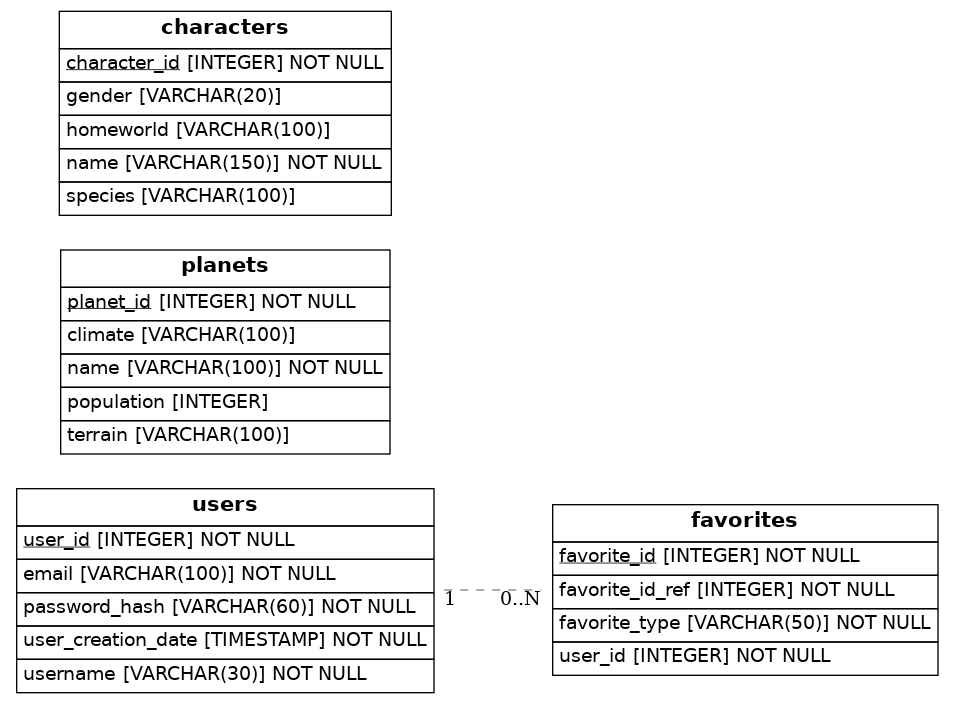
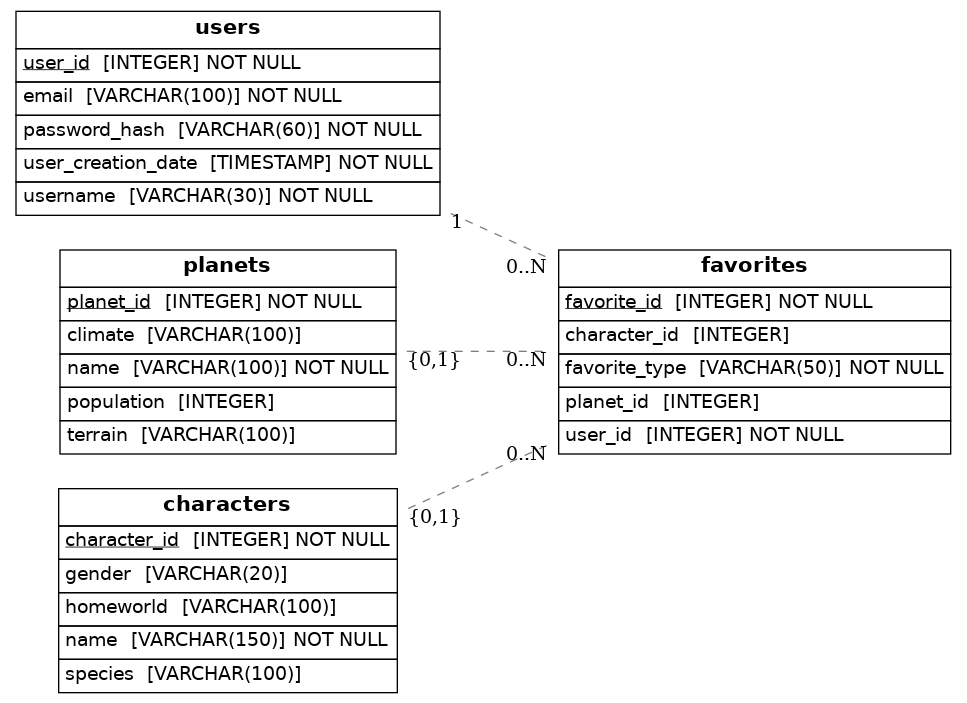
Cambio en tabla

diff --git a/src/models.py b/src/models.py
@@ -11,13 +11,11 @@ class Users(Base):
     __tablename__ = 'users'
     user_id = Column(Integer, primary_key=True)
     email = Column(String(100), unique=True, nullable=False)
-    password_hash = Column(String(60), nullable=False)  
+    password_hash = Column(String(60), nullable=False)
     username = Column(String(30), nullable=False)
-    user_creation_date = Column(TIMESTAMP, nullable=False)  
+    user_creation_date = Column(TIMESTAMP, nullable=False)
 
-    # Relación con Favoritos
     favorites = relationship("Favorites", back_populates="user")
-
 
 class Planets(Base):
     __tablename__ = 'planets'
@@ -27,10 +25,6 @@ class Planets(Base):
     terrain = Column(String(100), nullable=True)
     population = Column(Integer, nullable=True)
 
-    # Relación con Favoritos
-    favorites = relationship("Favorites", back_populates="planet")
-
-
 class Characters(Base):
     __tablename__ = 'characters'
     character_id = Column(Integer, primary_key=True)
@@ -39,21 +33,18 @@ class Characters(Base):
     homeworld = Column(String(100), nullable=True)
     gender = Column(String(20), nullable=True)
 
-    # Relación con Favoritos
-    favorites = relationship("Favorites", back_populates="character")
-
-
 class Favorites(Base):
     __tablename__ = 'favorites'
     favorite_id = Column(Integer, primary_key=True)
     user_id = Column(Integer, ForeignKey('users.user_id'), nullable=False)
+    planet_id = Column(Integer, ForeignKey('planets.planet_id'), nullable=True)
+    character_id = Column(Integer, ForeignKey('characters.character_id'), nullable=True)
     favorite_type = Column(String(50), nullable=False)
-    favorite_id_ref = Column(Integer, nullable=False)
 
-    # Relaciones
     user = relationship("Users", back_populates="favorites")
-    planet = relationship("Planets", back_populates="favorites")
-    character = relationship("Characters", back_populates="favorites")
+    planet = relationship("Planets", backref="favorites")
+    character = relationship("Characters", backref="favorites")
+
 
 ## Draw from SQLAlchemy base
 try:
